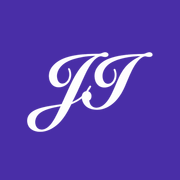
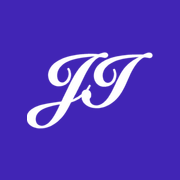
feat: 새 로고로 교체하고 포인트 색상을 로고 색에 맞춤
- 새 로고를 투명 배경 PNG 로 변환해 적용
  (검정 배경의 단색 로고에서 밝기 비율로 알파를 계산해 가장자리 보존)
- 헤더·푸터 로고, 모노그램, 구조화 데이터용 로고, 파비콘, 애플 아이콘,
  공유(OG) 이미지를 새 로고로 다시 생성하고 로고 이미지 비율을 갱신
- 포인트 색상을 새 로고 색(#4125B5)에 맞춰 조정
  (accent / accent-deep / brand-dark, theme-color, 체크박스)

diff --git a/src/app/globals.css b/src/app/globals.css
@@ -2,7 +2,7 @@
 
 /*
  * 디자인 토큰
- * - accent : 조은상사 로고의 보라색(#492EA7). 포인트 색은 이 한 가지만 사용합니다.
+ * - accent : 조은상사 로고의 보라색(#4125B5). 포인트 색은 이 한 가지만 사용합니다.
  * - paper  : 순백 대신 쓰는 따뜻한 바탕색 (인쇄물 같은 질감)
  * - ink    : 본문/제목 색. 보라 기운이 도는 짙은 색
  */
@@ -12,10 +12,10 @@
   --ink: #1b1730;
   --ink-soft: #5b5670;
   --line: #dad6d0;
-  --accent: #492ea7;
-  --accent-deep: #36207f;
+  --accent: #4125b5;
+  --accent-deep: #2f1b82;
   --accent-light: #c4b5fd;
-  --brand-dark: #271560;
+  --brand-dark: #241464;
 }
 
 @theme inline {

diff --git a/src/components/contact-form.tsx b/src/components/contact-form.tsx
@@ -203,7 +203,7 @@ export function ContactForm() {
             name="consent"
             required
             defaultChecked={values.consent === "on"}
-            className="mt-0.5 size-4 shrink-0 rounded-none border-ink/40 accent-[#492ea7]"
+            className="mt-0.5 size-4 shrink-0 rounded-none border-ink/40 accent-[#4125b5]"
             {...errorProps("consent")}
           />
           <span>

diff --git a/src/app/layout.tsx b/src/app/layout.tsx
@@ -74,7 +74,7 @@ export const metadata: Metadata = {
 export const viewport: Viewport = {
   width: "device-width",
   initialScale: 1,
-  themeColor: "#492ea7",
+  themeColor: "#4125b5",
 };
 
 export default function RootLayout({ children }: LayoutProps<"/">) {

diff --git a/src/components/logo.tsx b/src/components/logo.tsx
@@ -16,8 +16,8 @@ export function Logo({
     <Image
       src="/brand/logo.png"
       alt="조은상사 JJ"
-      width={1157}
-      height={208}
+      width={1646}
+      height={320}
       priority={priority}
       className={className}
     />

diff --git a/README.md b/README.md
@@ -22,7 +22,7 @@ npm run start   # 빌드 결과 실행
 | `src/app/{about,contact}` | 회사소개, 문의하기 |
 | `src/app/contact/actions.ts`, `src/components/contact-form.tsx` | 문의 폼 (서버 액션 + 서버 측 검증 + 스팸 방지 허니팟) |
 | `src/lib/contact.ts`, `src/lib/mail.ts` | 문의 항목/검증 규칙, 메일 발송 (Resend) |
-| `public/brand/logo-original.png` | 조은상사 공식 로고 원본 (투명 배경, 브랜드 색 `#492EA7`) |
+| `public/brand/logo-original.png` | 조은상사 공식 로고 원본 (투명 배경, 브랜드 색 `#4125B5`) |
 | `public/brand/logo.png`, `logo-mark.png` | 원본에서 여백을 제거한 가로형 로고 / JJ 모노그램. 헤더·푸터에서 사용 |
 | `public/logo.png`, `public/og-image.png`, `src/app/{favicon.ico,apple-icon.png}` | 로고에서 파생한 구조화 데이터용 로고, 공유(OG) 이미지, 아이콘 |
 
